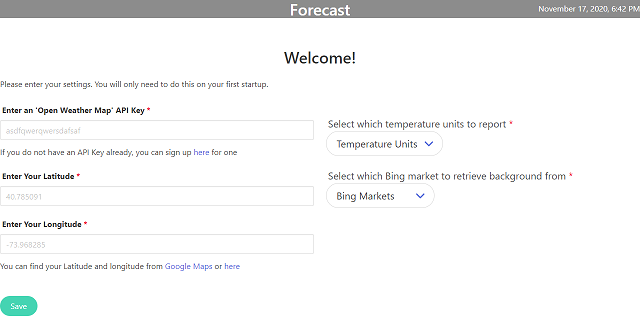
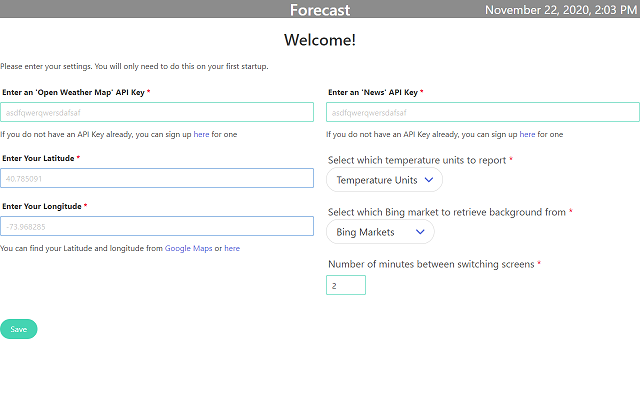
updated readme

diff --git a/src/app.js b/src/app.js
@@ -111,6 +111,7 @@ function getSettings() {
   // else initialize the settings menu
   const classLen = Object.keys(userOptions).length;
   if (Object.getOwnPropertyNames(temp).length !== classLen) {
+    document.body.style = 'background-color: rgb(255 255 255)!important;';
     initSettings();
   } else {
     document.getElementById('settings').style = 'display: none;';
@@ -183,7 +184,7 @@ async function setBackground() {
 
     document.getElementById('backgroundTitle').textContent = results.images[0].title;
   } else {
-    document.body.style.backgroundColor = 'rgb(62 62 62)!important';
+    document.body.style = 'background-color: rgb(62 62 62)!important';
   }
 }
 

diff --git a/README.md b/README.md
@@ -10,6 +10,8 @@ Best to run in a device like the raspberry pi on an old monitor to display your 
    1. They are free and can be obtained from here: [https://openweathermap.org/appid#signup](https://openweathermap.org/appid#signup)
 1. You need to know your latitude and longitude
    1. They can be found here: [https://latitudeandlongitude.org/](https://latitudeandlongitude.org/)
+1. You need to have an API Key from [News API](https://newsapi.org/)
+   1. Its free and can be obtained from here: [https://newsapi.org/register](https://newsapi.org/register)
 
 # Usage
 Once the required values are retrieved, enter them on the initial settings page and click 'Save'.   
